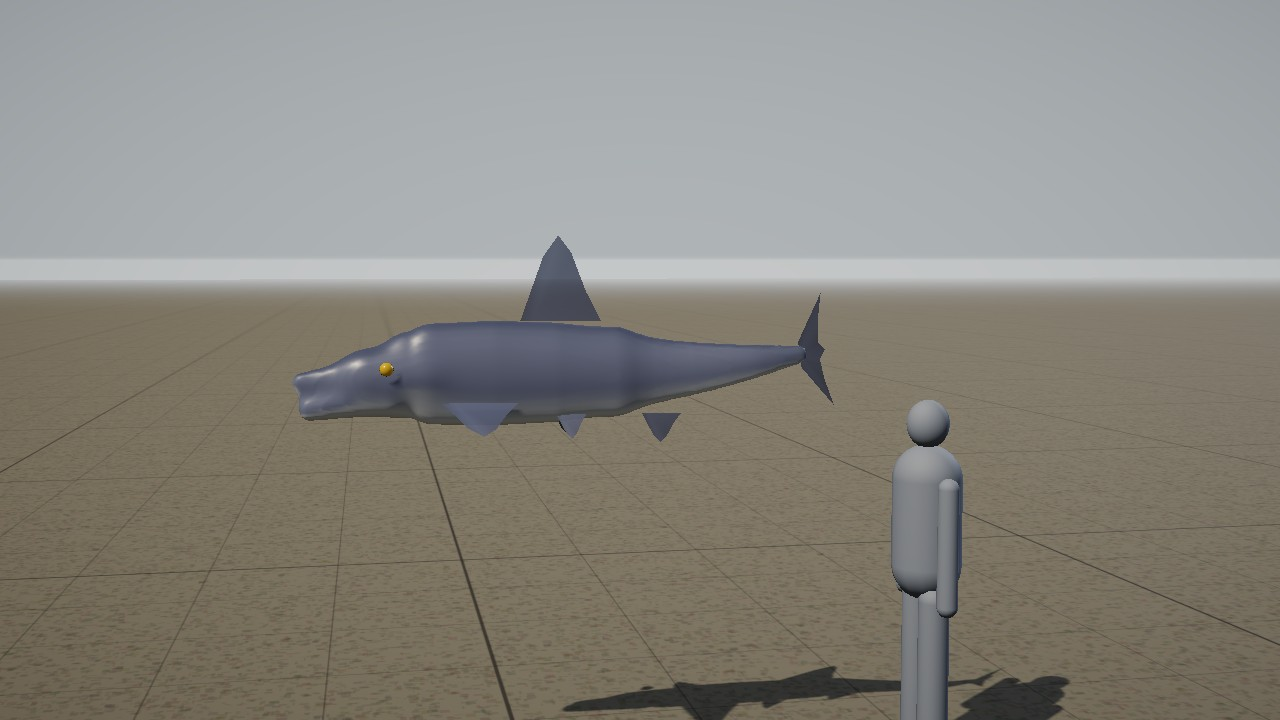
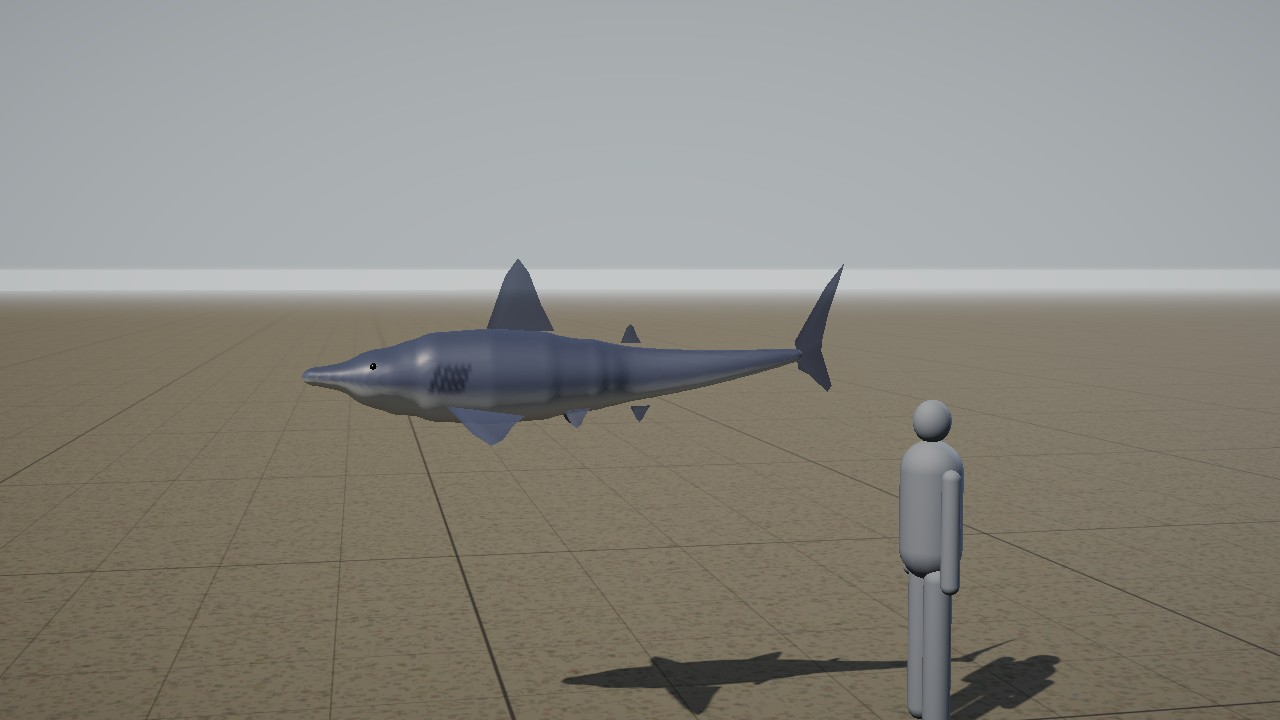
Session 1519: the kit's reef shark made a shark (its own plan: a pointed snout over an underslung mouth, gill slits, a heterocercal tail)
Claude-Session: https://claude.ai/code/session_019eFMMn1XQVSbTazBiYhtRW

diff --git a/vendor/creatures.builder.js b/vendor/creatures.builder.js
@@ -1741,7 +1741,9 @@ P.wings = (B, o) => {
 // 'fork' for a fish's tail (v up) or a whale's flukes (v sideways). It hangs off the spine at t, or off the tail's end.
 const FIN = { tri: [[-.15, 0], [.12, .75], [.3, 1], [.45, .8], [.62, .35], [.8, 0]],
   // Session 864: a moth's wings, the forewing pointed at its tip and the hindwing rounded
-  fore: [[-.05, 0], [-.04, .5], [.06, .94], [.2, 1], [.36, .82], [.5, .52], [.56, .22], [.46, 0]], hind: [[0, 0], [.08, .55], [.28, .88], [.55, .82], [.74, .52], [.8, .2], [.6, 0]], fork: [[0, .22], [.55, 1], [.42, .5], [.38, .15], [.5, 0], [.38, -.15], [.42, -.5], [.55, -1], [0, -.22]] };
+  fore: [[-.05, 0], [-.04, .5], [.06, .94], [.2, 1], [.36, .82], [.5, .52], [.56, .22], [.46, 0]], hind: [[0, 0], [.08, .55], [.28, .88], [.55, .82], [.74, .52], [.8, .2], [.6, 0]], fork: [[0, .22], [.55, 1], [.42, .5], [.38, .15], [.5, 0], [.38, -.15], [.42, -.5], [.55, -1], [0, -.22]],
+  // Session 1519: a shark's tail, heterocercal: the upper lobe long and swept back, a notch under its tip, the lower lobe short
+  shark: [[0, .2], [.6, .9], [.95, 1.2], [.84, .98], [.58, .5], [.44, .16], [.4, 0], [.5, -.52], [.42, -.6], [.15, -.3], [0, -.2]] };
 P.fins = (B, o) => { for (const f of o.list) for (const side of f.pair ? [1, -1] : [0]) {
   const onTail = f.on === 'tail', sp = onTail ? null : B.spineAt(f.at), parent = onTail ? B.tailBone : sp.bone;
   const R = onTail ? 0 : sp.r, base = onTail ? B.tailEnd.clone() : sp.p.clone().add(V(side * R * B.spineS[0] * (f.off?.[0] ?? .9), R * B.spineS[1] * (f.off?.[1] ?? 0), f.dz || 0));
@@ -2161,6 +2163,10 @@ function* dressFlesh(geo, B, pal, plan) {
     // the eyes to the ears, a stripe of one tone, and the rest of the face another (the badger's black stripes on white)
     if (plan.face && B.headFrame && B.by.head && (wb[B.by.head.i] + (B.by.jaw ? wb[B.by.jaw.i] : 0)) / tsum > .5) { const F = plan.face, H = B.headFrame, rel = V(x, y, z).sub(H.base), along = rel.dot(H.dir) / H.len, side = Math.abs(rel.x) / H.r, upw = rel.dot(H.up) / H.r;
       if (along > (F.back ?? -.3) && upw > -.35) C.copy(pal[side > F.from && side < F.to ? F.stripe : F.ground]).multiplyScalar(.95 + .1 * PN.noise(x * 40, y * 40, z * 40)); }
+    // gill slits (Session 1519, the shark's): `n` dark bands across the flank behind the head, `step` apart along the head's line
+    // from `from` (in the head's lengths; behind its root is negative), each `w` wide, between two distances out and two heights, leaning back by `tilt` as it rises
+    if (plan.gills && B.headFrame) { const Q = plan.gills, H = B.headFrame, rel = V(x, y, z).sub(H.base), al = rel.dot(H.dir) / H.len, sd = Math.abs(rel.x) / H.r, up = rel.dot(H.up) / H.r;
+      if (sd > Q.side[0] && sd < Q.side[1] && up > Q.up[0] && up < Q.up[1]) for (let k = 0; k < Q.n; k++) { const c = Q.from - k * Q.step * (1 - .06 * k), d = Math.abs(al - c + up * (Q.tilt || 0)) * H.len; if (d < Q.w) { C.lerp(pal[Q.tone], sstep(Q.w, Q.w * .35, d) * sstep(Q.side[0], Q.side[0] + .2, sd) * sstep(Q.up[1], Q.up[1] - .25, up) * sstep(Q.up[0], Q.up[0] + .25, up) * (Q.k ?? .9)); break; } } }
     const mott = 1 + (PN.noise(x * 4.1, y * 4.1, z * 4.1) * .16 + PN.noise(x * 17, y * 17, z * 17) * .06) * (plan.mottle ?? 1); C.multiplyScalar(mott);
     col[v * 3] = C.r; col[v * 3 + 1] = C.g; col[v * 3 + 2] = C.b; fur[v] = furry;
     // the ice thin over the face (Session 968, the frozen man's): the hide's opacity falls from the plan's `clear` to `faceClear` over the
@@ -3202,9 +3208,27 @@ Object.assign(PLANS, {
   skyskimmer: re(PLANS.riverjaw, { name: 'Skyskimmer', src: 'OG-016 (open ocean: a flying fish that glides on its fins)', scale: .45, mottle: .3,
     palette: { coat: [.66, .72, .8], saddle: [.16, .28, .5], belly: [.92, .93, .94], dark: [.04, .04, .06], fin: [.55, .66, .82] }, finOpacity: .8,
     parts: PLANS.riverjaw.parts.map(([k, o]) => k === 'fins' ? [k, { list: o.list.map(f => f.role === 'pec' ? { ...f, out: [1, .1, 0], len: .32, h: .26 } : f) }] : [k, o]) }),
-  reefshark: re(PLANS.riverjaw, { name: 'Reef Shark', src: 'OG-016 (open ocean: a reef shark)', scale: 2.6, bl: .9, mottle: .3,
-    palette: { coat: [.44, .48, .52], saddle: [.3, .34, .38], belly: [.9, .9, .88], dark: [.04, .04, .05], fin: [.36, .4, .44] },
-    parts: PLANS.riverjaw.parts.map(([k, o]) => k === 'head' ? [k, { ...o, s: [.62, .78, 1], muzzle: { ...o.muzzle, taper: .45 } }] : k === 'fins' ? [k, { list: o.list.map((f, i) => i === 0 ? { ...f, len: .16, h: .16 } : f.role === 'pec' ? { ...f, len: .15, h: .14 } : f) }] : [k, o]) }),
+  // Session 1519: the reef shark as a shark of its own, not a salmon recoloured (it read as one: a blunt nose, a gold eye, a
+  // forked salmon's tail). The game's shark (Michael's A on Session 230) is the brief: a pointed snout over an underslung mouth,
+  // a small black eye, five gill slits, a tall dorsal well forward, long pectorals swept back, a small second dorsal and anal
+  // fin by the tail's root, and the tail heterocercal (the upper lobe long, the lower short: FIN.shark); grey above, pale beneath
+  reefshark: { name: 'Reef Shark', src: 'OG-016 (open ocean: a reef shark); the game’s shark, Michael’s A on Session 230', gaits: ['swim', 'stand'], scale: 2.6, bl: .9, waveAmp: .16,
+    water: 1.2, rough: .4, mottle: .25, wag: 0, pant: 0,
+    palette: { coat: [.4, .45, .49], saddle: [.3, .35, .39], belly: [.88, .88, .86], dark: [.03, .03, .035], fin: [.33, .38, .42], gill: [.17, .2, .23] },
+    gills: { n: 5, from: -.04, step: .085, w: .008, side: [.5, 1.15], up: [-.45, .5], tilt: .12, k: .6, tone: 'gill' },
+    parts: [
+      ['spine', { hip: [.8, -.13], chest: [.8, .17], n: 4, r: [.07, .1, .09], s: [.86, 1], rump: .03, front: .04 }],
+      ['head', { len: .21, r: .076, pitch: 0, s: [.88, .78, 1], muzzle: { len: .95, r: .068, s: [.95, .62, 1], taper: .42, drop: -.02 }, jaw: { len: .55, r: .03, drop: .35 },
+        eyes: [{ f: .5, up: .32, out: .7, r: .0075, color: [.03, .03, .03] }] }],
+      ['tail', { len: .42, n: 5, r: [.062, .014], s: [.62, 1.05] }],
+      ['fins', { list: [
+        { at: .62, off: [0, .95], out: [0, 1, 0], len: .15, h: .15 },
+        { at: .9, off: [.78, -.62], out: [1, -.5, 0], back: [0, -.15, -1], len: .17, h: .19, pair: 1, role: 'pec' },
+        { at: .15, off: [.45, -.85], out: [.55, -1, 0], len: .06, h: .045, pair: 1 },
+        { at: 0, dz: -.08, off: [0, .95], out: [0, 1, 0], len: .045, h: .04 },
+        { at: 0, dz: -.1, off: [0, -.95], out: [0, -1, 0], len: .045, h: .035 },
+        { on: 'tail', kind: 'shark', out: [0, 1, 0], len: .16, h: .15, role: 'caudal' }] }]
+    ] },
   stormswift: re(PLANS.stormwhale, { name: 'Stormswift', src: 'OG-016 (open ocean: rides the bow wave), OG-084 (dolphins)', scale: .17, bl: .9, waveAmp: .16, mottle: .4,
     palette: { coat: [.46, .5, .56], saddle: [.24, .28, .34], belly: [.88, .88, .86], dark: [.04, .04, .05], fin: [.3, .34, .4] },
     parts: PLANS.stormwhale.parts.map(([k, o]) => k === 'head' ? [k, { ...o, len: 3.1, muzzle: { ...o.muzzle, r: .38, taper: .75 }, jaw: { ...o.jaw, r: .32 } }] : k === 'fins' ? [k, { list: o.list.map((f, i) => i === 1 ? { ...f, at: .45, len: 1.5, h: 1.7 } : f) }] : [k, o]) }),

diff --git a/docs/prototypes/levelup/creatures.js b/docs/prototypes/levelup/creatures.js
@@ -311,7 +311,9 @@ P.wings = (B, o) => {
 // 'fork' for a fish's tail (v up) or a whale's flukes (v sideways). It hangs off the spine at t, or off the tail's end.
 const FIN = { tri: [[-.15, 0], [.12, .75], [.3, 1], [.45, .8], [.62, .35], [.8, 0]],
   // Session 864: a moth's wings, the forewing pointed at its tip and the hindwing rounded
-  fore: [[-.05, 0], [-.04, .5], [.06, .94], [.2, 1], [.36, .82], [.5, .52], [.56, .22], [.46, 0]], hind: [[0, 0], [.08, .55], [.28, .88], [.55, .82], [.74, .52], [.8, .2], [.6, 0]], fork: [[0, .22], [.55, 1], [.42, .5], [.38, .15], [.5, 0], [.38, -.15], [.42, -.5], [.55, -1], [0, -.22]] };
+  fore: [[-.05, 0], [-.04, .5], [.06, .94], [.2, 1], [.36, .82], [.5, .52], [.56, .22], [.46, 0]], hind: [[0, 0], [.08, .55], [.28, .88], [.55, .82], [.74, .52], [.8, .2], [.6, 0]], fork: [[0, .22], [.55, 1], [.42, .5], [.38, .15], [.5, 0], [.38, -.15], [.42, -.5], [.55, -1], [0, -.22]],
+  // Session 1519: a shark's tail, heterocercal: the upper lobe long and swept back, a notch under its tip, the lower lobe short
+  shark: [[0, .2], [.6, .9], [.95, 1.2], [.84, .98], [.58, .5], [.44, .16], [.4, 0], [.5, -.52], [.42, -.6], [.15, -.3], [0, -.2]] };
 P.fins = (B, o) => { for (const f of o.list) for (const side of f.pair ? [1, -1] : [0]) {
   const onTail = f.on === 'tail', sp = onTail ? null : B.spineAt(f.at), parent = onTail ? B.tailBone : sp.bone;
   const R = onTail ? 0 : sp.r, base = onTail ? B.tailEnd.clone() : sp.p.clone().add(V(side * R * B.spineS[0] * (f.off?.[0] ?? .9), R * B.spineS[1] * (f.off?.[1] ?? 0), f.dz || 0));
@@ -731,6 +733,10 @@ function* dressFlesh(geo, B, pal, plan) {
     // the eyes to the ears, a stripe of one tone, and the rest of the face another (the badger's black stripes on white)
     if (plan.face && B.headFrame && B.by.head && (wb[B.by.head.i] + (B.by.jaw ? wb[B.by.jaw.i] : 0)) / tsum > .5) { const F = plan.face, H = B.headFrame, rel = V(x, y, z).sub(H.base), along = rel.dot(H.dir) / H.len, side = Math.abs(rel.x) / H.r, upw = rel.dot(H.up) / H.r;
       if (along > (F.back ?? -.3) && upw > -.35) C.copy(pal[side > F.from && side < F.to ? F.stripe : F.ground]).multiplyScalar(.95 + .1 * PN.noise(x * 40, y * 40, z * 40)); }
+    // gill slits (Session 1519, the shark's): `n` dark bands across the flank behind the head, `step` apart along the head's line
+    // from `from` (in the head's lengths; behind its root is negative), each `w` wide, between two distances out and two heights, leaning back by `tilt` as it rises
+    if (plan.gills && B.headFrame) { const Q = plan.gills, H = B.headFrame, rel = V(x, y, z).sub(H.base), al = rel.dot(H.dir) / H.len, sd = Math.abs(rel.x) / H.r, up = rel.dot(H.up) / H.r;
+      if (sd > Q.side[0] && sd < Q.side[1] && up > Q.up[0] && up < Q.up[1]) for (let k = 0; k < Q.n; k++) { const c = Q.from - k * Q.step * (1 - .06 * k), d = Math.abs(al - c + up * (Q.tilt || 0)) * H.len; if (d < Q.w) { C.lerp(pal[Q.tone], sstep(Q.w, Q.w * .35, d) * sstep(Q.side[0], Q.side[0] + .2, sd) * sstep(Q.up[1], Q.up[1] - .25, up) * sstep(Q.up[0], Q.up[0] + .25, up) * (Q.k ?? .9)); break; } } }
     const mott = 1 + (PN.noise(x * 4.1, y * 4.1, z * 4.1) * .16 + PN.noise(x * 17, y * 17, z * 17) * .06) * (plan.mottle ?? 1); C.multiplyScalar(mott);
     col[v * 3] = C.r; col[v * 3 + 1] = C.g; col[v * 3 + 2] = C.b; fur[v] = furry;
     // the ice thin over the face (Session 968, the frozen man's): the hide's opacity falls from the plan's `clear` to `faceClear` over the
@@ -1772,9 +1778,27 @@ Object.assign(PLANS, {
   skyskimmer: re(PLANS.riverjaw, { name: 'Skyskimmer', src: 'OG-016 (open ocean: a flying fish that glides on its fins)', scale: .45, mottle: .3,
     palette: { coat: [.66, .72, .8], saddle: [.16, .28, .5], belly: [.92, .93, .94], dark: [.04, .04, .06], fin: [.55, .66, .82] }, finOpacity: .8,
     parts: PLANS.riverjaw.parts.map(([k, o]) => k === 'fins' ? [k, { list: o.list.map(f => f.role === 'pec' ? { ...f, out: [1, .1, 0], len: .32, h: .26 } : f) }] : [k, o]) }),
-  reefshark: re(PLANS.riverjaw, { name: 'Reef Shark', src: 'OG-016 (open ocean: a reef shark)', scale: 2.6, bl: .9, mottle: .3,
-    palette: { coat: [.44, .48, .52], saddle: [.3, .34, .38], belly: [.9, .9, .88], dark: [.04, .04, .05], fin: [.36, .4, .44] },
-    parts: PLANS.riverjaw.parts.map(([k, o]) => k === 'head' ? [k, { ...o, s: [.62, .78, 1], muzzle: { ...o.muzzle, taper: .45 } }] : k === 'fins' ? [k, { list: o.list.map((f, i) => i === 0 ? { ...f, len: .16, h: .16 } : f.role === 'pec' ? { ...f, len: .15, h: .14 } : f) }] : [k, o]) }),
+  // Session 1519: the reef shark as a shark of its own, not a salmon recoloured (it read as one: a blunt nose, a gold eye, a
+  // forked salmon's tail). The game's shark (Michael's A on Session 230) is the brief: a pointed snout over an underslung mouth,
+  // a small black eye, five gill slits, a tall dorsal well forward, long pectorals swept back, a small second dorsal and anal
+  // fin by the tail's root, and the tail heterocercal (the upper lobe long, the lower short: FIN.shark); grey above, pale beneath
+  reefshark: { name: 'Reef Shark', src: 'OG-016 (open ocean: a reef shark); the game’s shark, Michael’s A on Session 230', gaits: ['swim', 'stand'], scale: 2.6, bl: .9, waveAmp: .16,
+    water: 1.2, rough: .4, mottle: .25, wag: 0, pant: 0,
+    palette: { coat: [.4, .45, .49], saddle: [.3, .35, .39], belly: [.88, .88, .86], dark: [.03, .03, .035], fin: [.33, .38, .42], gill: [.17, .2, .23] },
+    gills: { n: 5, from: -.04, step: .085, w: .008, side: [.5, 1.15], up: [-.45, .5], tilt: .12, k: .6, tone: 'gill' },
+    parts: [
+      ['spine', { hip: [.8, -.13], chest: [.8, .17], n: 4, r: [.07, .1, .09], s: [.86, 1], rump: .03, front: .04 }],
+      ['head', { len: .21, r: .076, pitch: 0, s: [.88, .78, 1], muzzle: { len: .95, r: .068, s: [.95, .62, 1], taper: .42, drop: -.02 }, jaw: { len: .55, r: .03, drop: .35 },
+        eyes: [{ f: .5, up: .32, out: .7, r: .0075, color: [.03, .03, .03] }] }],
+      ['tail', { len: .42, n: 5, r: [.062, .014], s: [.62, 1.05] }],
+      ['fins', { list: [
+        { at: .62, off: [0, .95], out: [0, 1, 0], len: .15, h: .15 },
+        { at: .9, off: [.78, -.62], out: [1, -.5, 0], back: [0, -.15, -1], len: .17, h: .19, pair: 1, role: 'pec' },
+        { at: .15, off: [.45, -.85], out: [.55, -1, 0], len: .06, h: .045, pair: 1 },
+        { at: 0, dz: -.08, off: [0, .95], out: [0, 1, 0], len: .045, h: .04 },
+        { at: 0, dz: -.1, off: [0, -.95], out: [0, -1, 0], len: .045, h: .035 },
+        { on: 'tail', kind: 'shark', out: [0, 1, 0], len: .16, h: .15, role: 'caudal' }] }]
+    ] },
   stormswift: re(PLANS.stormwhale, { name: 'Stormswift', src: 'OG-016 (open ocean: rides the bow wave), OG-084 (dolphins)', scale: .17, bl: .9, waveAmp: .16, mottle: .4,
     palette: { coat: [.46, .5, .56], saddle: [.24, .28, .34], belly: [.88, .88, .86], dark: [.04, .04, .05], fin: [.3, .34, .4] },
     parts: PLANS.stormwhale.parts.map(([k, o]) => k === 'head' ? [k, { ...o, len: 3.1, muzzle: { ...o.muzzle, r: .38, taper: .75 }, jaw: { ...o.jaw, r: .32 } }] : k === 'fins' ? [k, { list: o.list.map((f, i) => i === 1 ? { ...f, at: .45, len: 1.5, h: 1.7 } : f) }] : [k, o]) }),

diff --git a/docs/backlog.md b/docs/backlog.md
@@ -533,7 +533,7 @@ Michael marked all 96 images of the intake on the review page: 63 KEEP and 33 NO
 - **The Mark's fifteen** (OG-031): Icehorn (horns that moan in the wind), Ironpine Elk, Stormlynx, Skyraven, Craghorn Ram, Glacial Marmot, Stormshrike, Snowleap Hare (coat by season), Riverjaw Salmon (leaps the falls), Tundra Grouse, Icecrab; Stonefang Wolf and Frostreach Bear as reskins of the Snow Wolf and Cave Bear. **All fifteen are plans in the kit, Session 847** (bodies builder; `creatures.js` `MARK`, `creatures-mark.jpg`); owed: the game, after F4.
 - **Aurenne's fifteen** (OG-030): Duneskimmer, Terrace Ram, Oasis Hare, Scarlet Ibis, Mirage Fox, Cliffswift, Amber Shellcrab (harvestable), Cypress Stalker, Glasswing Moth (an ingredient), Sunbeak Vulture, Spined Gekko; the Saltspine Monitor hostile; the Dunescorpion as the Sand Scorpion's skin; the Sand Wyrm as a set piece known by its funnels. **Fourteen are plans in the kit, Session 848** (bodies builder; `creatures.js` `AURENNE`, `creatures-aurenne.jpg`); owed: the game, after F4; ~~the Glasswing Moth~~ — done, Session 864 (a moth's glass wings in the kit), so all fifteen are plans.
 - **The strange beasts** (OG-040): the Crownstag, the Mossback (a tortoise carrying a garden), the Bellthroat (its call at dusk), the Lanternfox, the Thornrunner; the Shatterhorn, the Frostmane (a pack beast), the Glasswing, the Stonejaw, the Stormplume; the Redcrest, the Sunfan, the Mineprowler, the Sailshell. Wonder without menace, mostly peaceful. A few have six legs, and that is ordinary (Michael's 9 A). **All fourteen are plans in the kit, Session 853** (bodies builder; `creatures.js` `STRANGE`, `creatures-strange.jpg`): six from Sessions 773 to 775 and eight new (the Crownstag, the Lanternfox, the Thornrunner, the Frostmane, the Glasswing, the Stonejaw, the Redcrest, the Sunfan); owed: the game, after F4.
-- **The sea** (OG-016, OG-084, OG-031): tidecrab, moray, rays, lantern jelly, flying fish, squid, seals, dolphins, octopus, turtles; the Shatterback and the maw turtle as landmarks mistaken for rock; the gate eel and the Gate Leviathan as a sea gate's antibodies (the Mouth, the Vault of the Tide), seams glowing. **Seventeen are plans in the kit, Session 854** (bodies builder; `creatures.js` `SEA`, `creatures-sea.jpg`): the reef moray, the starweed and sailfin rays, the lantern jelly, the coastal tuna, the skyskimmer, the Stormswift (a dolphin), the drifter squid, the reef shark, the grey seal, the blackcurrent eel, the gate eel and the Gate Leviathan, beside the Tidecrab, the Storm Whale, the octopus and the Shatterback; owed: the game, after F4; ~~the kelpstrider~~ — done, Session 863 (leafy fronds in the kit); ~~the pierwinkle~~ — done, Session 862 (a coiled shell in the kit); ~~the stonefish, the abyssal angler and the crimson leviathan~~ — done, Session 856; ~~turtles (a sea turtle and the maw turtle need flippers)~~ — done, Session 861 (flippers in the kit: flattened arms that stroke).
+- **The sea** (OG-016, OG-084, OG-031): tidecrab, moray, rays, lantern jelly, flying fish, squid, seals, dolphins, octopus, turtles; the Shatterback and the maw turtle as landmarks mistaken for rock; the gate eel and the Gate Leviathan as a sea gate's antibodies (the Mouth, the Vault of the Tide), seams glowing. **Seventeen are plans in the kit, Session 854** (bodies builder; `creatures.js` `SEA`, `creatures-sea.jpg`): the reef moray, the starweed and sailfin rays, the lantern jelly, the coastal tuna, the skyskimmer, the Stormswift (a dolphin), the drifter squid, the reef shark (~~a shark of its own, not the salmon recoloured~~ — done, Session 1519: the game's shark, Michael's A on S230, as the brief; `creatures-reefshark*.jpg`; owed: the game's Shark wearing it), the grey seal, the blackcurrent eel, the gate eel and the Gate Leviathan, beside the Tidecrab, the Storm Whale, the octopus and the Shatterback; owed: the game, after F4; ~~the kelpstrider~~ — done, Session 863 (leafy fronds in the kit); ~~the pierwinkle~~ — done, Session 862 (a coiled shell in the kit); ~~the stonefish, the abyssal angler and the crimson leviathan~~ — done, Session 856; ~~turtles (a sea turtle and the maw turtle need flippers)~~ — done, Session 861 (flippers in the kit: flattened arms that stroke).
 - **Livestock** (OG-023, OG-035): chickens, goats, sheep, cows and bees on farms and in fields. **Prototyped as plans in the kit, Session 844** (bodies builder; `creatures.js` `LIVESTOCK`, `creatures-livestock.jpg`): the cow, the sheep, the goat and the hen build and walk; owed: the bees (not skeletal), and the game (after F4); ~~breeds by island~~ — done, Session 866 (`COATS`); ~~a cow's patches~~ — done, Session 845 (a patches pattern in the kit).
 - **Beasts of burden and wagons** (OG-046, OG-077): horse, mule, donkey, ox, camel, reindeer, yak; covered and merchant wagons, the stagecoach, supply carts on the roads. OG-077's post-rider on a horse-sized hare is the brief's licence made ordinary: one on the Gatelands' roads. **The animals are plans in the kit, Session 855** (bodies builder; `creatures.js` `BURDEN`, `creatures-burden.jpg`): the horse, the mule, the donkey, the ox, the camel, the reindeer, the highland yak and a saddled giant goat, beside the post hare (Session 773); OG-046's llama is the Frostmane and its cow the livestock's. Owed: the wagons and carts (props: the look builder's), and the game, after F4; ~~harness and packs~~ — done, Session 867 (`packs` and `harness` in the kit: the pack mule, the draught horse, the yoked ox). **The horse heavier, Session 1261** (bodies builder; S1251 found the kit's horse a thin-legged foal at the coach's size): a deeper barrel, a deep flat neck with a mane (the kit's new `mane`, a crest in its own tone), a broader head, legs a third thicker, a full tail; the draught horse's collar fitted to the grown skin. ~~the coach's team on it (a key per horse from `buildCoachLine`)~~ — done, Session 1273 (the bay and the grey on the kit's horse behind the new look, keyed `coach:<road>:<i>`, each leg bent onto the driver's hoof height, `hcLegIK`; `f4beasts`).
 

diff --git a/docs/devlog/1519.md b/docs/devlog/1519.md
@@ -1,0 +1,43 @@
+## v80 — Session 1519 — the kit's reef shark made a shark
+No freeze was open, the last bodies run had landed (#816), and section I holds nothing for this lane. Michael's notes #272 and #274
+have been worked through in earlier sessions. Backlog L3's peaceful animals still wait on a spawn, which is the systems builder's.
+The next step in the prompt's order is the kit's families into the game. Every foe now wears the kit's body or the builder's except
+two at sea: the Shore Wisp, whose light Michael chose as shown in S214, and the Shark. So the Shark came next. Before bringing the
+kit's reef shark over, I looked at it, and it was not fit to bring.
+
+**What was wrong.** Session 854 made the reef shark as `re(PLANS.riverjaw, …)`, the Riverjaw Salmon scaled 2.6 and recoloured grey. Close
+to, it read as a salmon (`creatures-reefshark-before.jpg`). It had a blunt, rounded nose with a hanging jaw, a gold eye, and a salmon's
+small forked tail. Its dorsal fin sat midway, and it had no gills. It would have been a step back from the game's own shark, which
+Michael chose on Session 230 (A, as shown): a pointed snout, a crescent tail, a tall dorsal, pectorals, a small second dorsal, gill
+slits, and grey above with pale beneath.
+
+**What changed** (`docs/prototypes/levelup/creatures.js`, and `vendor/creatures.builder.js` rebuilt from it by `creatures_bundle.py`):
+- `reefshark` is now a plan of its own, not a salmon recoloured. The body is round in section (0.86 wide to 1 deep) and deepest at
+  the chest (r 0.07/0.10/0.09). A long tail of 5 bones tapers to a thin root (r 0.062 to 0.014). The head is flattened (0.78 high)
+  and the snout is a cone tapered to 0.42 that runs out past the mouth. The jaw is short and set low beneath (0.55 of the head,
+  r 0.03), so the mouth is underslung. The eye is small and black. `pant` is 0, so the mouth stays shut.
+- The fins: a tall first dorsal well forward (at 0.62 of the trunk, 0.15 by 0.15), and long pectorals swept back (0.17 by 0.19).
+  There are small pelvics, a small second dorsal and an anal fin by the tail's root. The tail is the new outline `FIN.shark`, which
+  is heterocercal: the upper lobe is long and swept back, there is a notch under it, and the lower lobe is short.
+- Gill slits, `plan.gills`: a new step in the hide's colouring, next to the face mask. Five dark bands run across the flank behind
+  the head, 0.085 head lengths apart, each 8 mm wide, leaning back as they rise. They fade at their ends and stay off the back and
+  the belly. Only a plan that names `gills` gets them.
+- The counter-shading is the kit's own: the saddle darkens what faces up and the belly lightens what faces down. The palette is the
+  game's grey over white.
+It is 19 bones and 23,576 triangles, built in 150 ms, about 2.1 m long. Nothing in the game changes: the Shark still wears the game's
+lathed body, because `HC_KINDS` does not name it.
+
+### Verified (headless Chromium)
+- `creatures.check.mjs --plans=reefshark,riverjaw,stormwhale` passes. For the reef shark: it builds from its parts (19 bones, 23,576
+  triangles), its skin weights sum to one (error 0), and both gaits pass, with a genome of 154 bytes. The riverjaw and the storm whale
+  (the old base, and the other `fork` user) are unchanged.
+- `scripts/creatures_bundle.py --check` passes after the rebuild, and `parsecheck` is OK. `f4wolves` passes 1/1, which covers the
+  bundle in the game.
+- Pictures: `creatures-reefshark-before.jpg` (main's), `creatures-reefshark.jpg` (side) and `creatures-reefshark-head.jpg` (close,
+  three-quarter from the front).
+
+### Needs eyes
+- From the side at the line-up's distance, the gill bands alias into a small chequer. The hide's vertices are about a centimetre
+  apart there. They read cleanly close to.
+- The next session puts it in the game: the Shark wears this body on the new look, at the game's size, driven by the swim gait's
+  wave instead of `_sharkTail`'s pivot. Its own suite would need a shark spawned in the water.
